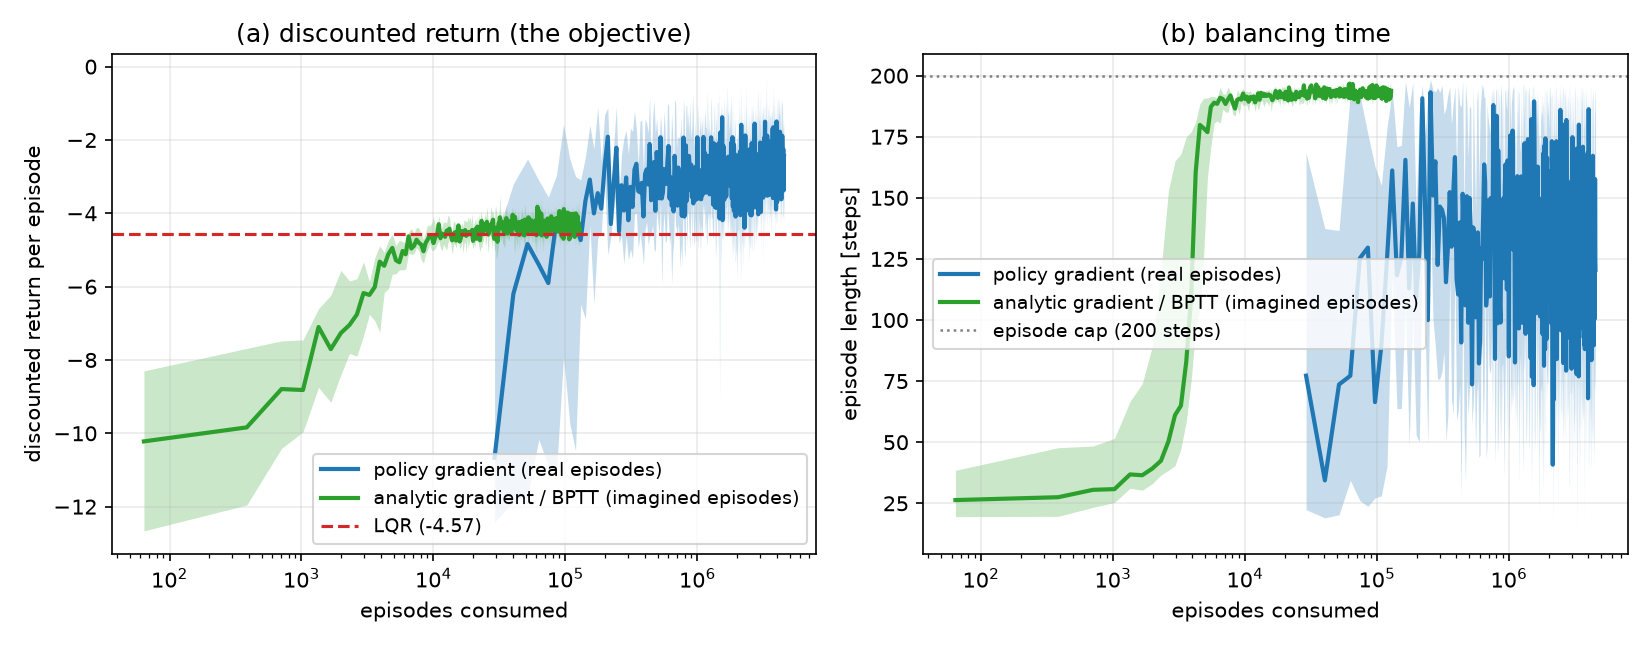
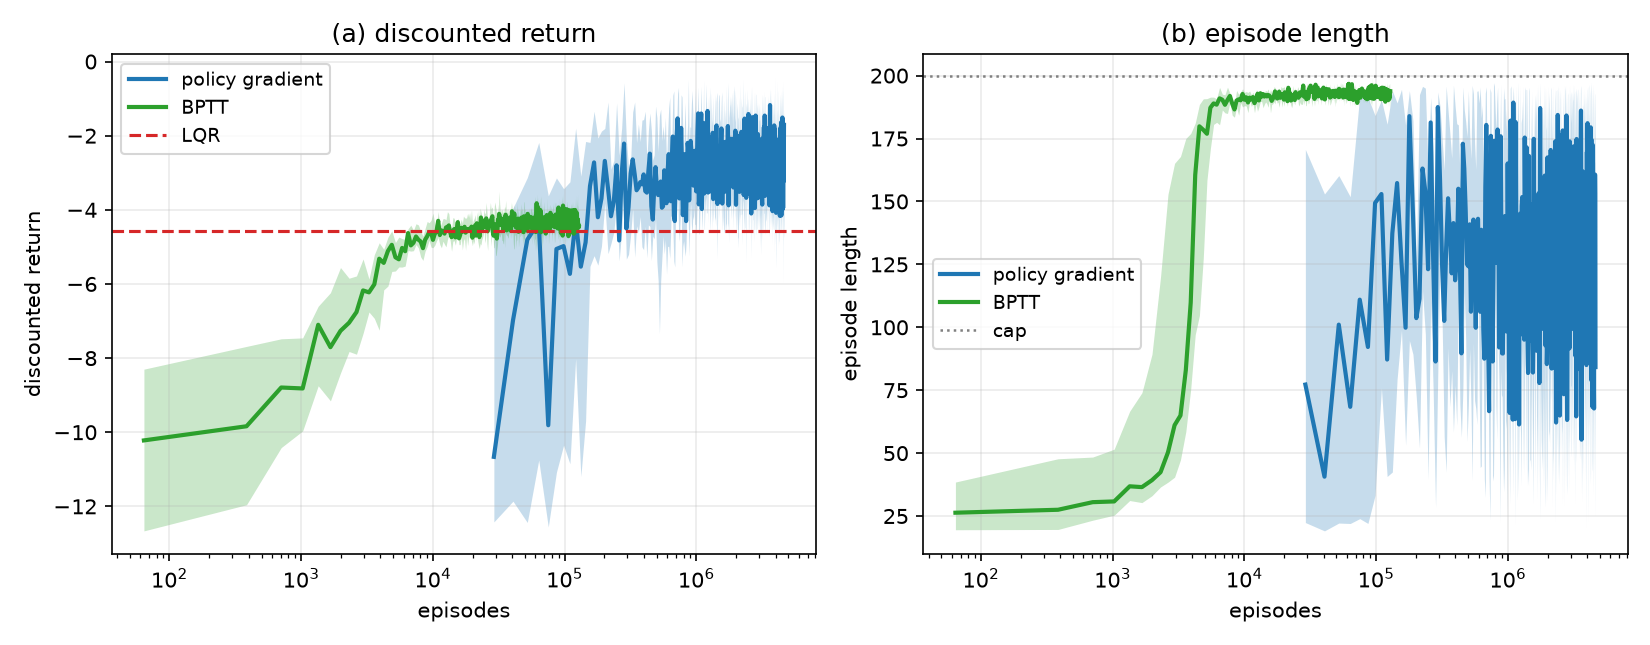
図の可読性改善と結果の更新
- 図のラベル・凡例・タイトルを短く整理した
- 図5(b)の角度を [-180, 180] 度へ折り返して描くようにした
  (回転は鋸歯状の波形として読める. 回転数は表2に数値で載せてある)
- 図5(b)の軌道を評価と同じ初期状態分布からサンプルした点から描き,
  最良の試行ではなく中央値に最も近い試行を選ぶようにした
  (分布の平均は角速度0の特異点で, 表の統計と食い違っていたため)
- 回転数の集計から発散した試行を除外した
- 課題指定の報酬では16試行の結果が二極化することを4.1節に反映した
  (自滅解と倒立側の局所解に分かれ, 中間的な挙動がない)
- 勾配クリッピングで発散が完全には消えないことを2.1節に明記した

diff --git a/main.py b/main.py
@@ -101,15 +101,15 @@ def plot_reward_design(spec, shaped):
     _, axes = plt.subplots(1, 2, figsize=(11, 4.3))
     window = spec[1].shape[1] // 2000
     for (policies, count, returns, lengths, _, _), color, name in (
-            (spec, "tab:red", r"as specified ($r=-s'Qs-aRa$)"),
-            (shaped, "tab:blue", r"with terminal penalty ($-20$ on failure)")):
+            (spec, "tab:red", "as specified"),
+            (shaped, "tab:blue", "terminal penalty")):
         band(axes[0], [curve(count[s], returns[s], window) for s in range(SEEDS)], color, name)
         band(axes[1], [curve(count[s], lengths[s], window) for s in range(SEEDS)], color, name)
-    axes[0].set_ylabel(r"return per episode under $r=-s'Qs-aRa$")
-    axes[0].set_title("(a) cumulative reward (terminal penalty excluded)")
-    axes[1].axhline(200, color="gray", ls=":", lw=1.2, label="episode cap (200 steps)")
-    axes[1].set_ylabel("episode length [steps]")
-    axes[1].set_title("(b) balancing time")
+    axes[0].set_ylabel("return")
+    axes[0].set_title("(a) return")
+    axes[1].axhline(200, color="gray", ls=":", lw=1.2, label="cap")
+    axes[1].set_ylabel("episode length")
+    axes[1].set_title("(b) episode length")
     for ax in axes:
         ax.set_xlabel("episodes")
         ax.set_xscale("log")
@@ -125,19 +125,19 @@ def plot_method_comparison(shaped, analytic, lqr_value):
     window = count.shape[1] // 2000
     bptt_x = np.arange(1, value_curve.shape[1] + 1) * BPTT.batch
     for ax, pg_values, bptt_values, ylabel, title in (
-            (axes[0], values, value_curve, "discounted return per episode", "(a) discounted return (the objective)"),
-            (axes[1], lengths, length_curve, "episode length [steps]", "(b) balancing time")):
+            (axes[0], values, value_curve, "discounted return", "(a) discounted return"),
+            (axes[1], lengths, length_curve, "episode length", "(b) episode length")):
         band(ax, [curve(count[s], pg_values[s], window) for s in range(SEEDS)], "tab:blue",
-             "policy gradient (real episodes)")
+             "policy gradient")
         band(ax, [(bptt_x, bptt_values[s]) for s in range(SEEDS)], "tab:green",
-             "analytic gradient / BPTT (imagined episodes)")
-        ax.set_xlabel("episodes consumed")
+             "BPTT")
+        ax.set_xlabel("episodes")
         ax.set_xscale("log")
         ax.set_ylabel(ylabel)
         ax.set_title(title)
         ax.grid(alpha=0.25)
-    axes[0].axhline(lqr_value, color="tab:red", ls="--", lw=1.5, label=f"LQR ({lqr_value:.2f})")
-    axes[1].axhline(200, color="gray", ls=":", lw=1.2, label="episode cap (200 steps)")
+    axes[0].axhline(lqr_value, color="tab:red", ls="--", lw=1.5, label="LQR")
+    axes[1].axhline(200, color="gray", ls=":", lw=1.2, label="cap")
     for ax in axes:
         ax.legend(fontsize=9, loc="best")
     save_figure("method_comparison.png")
@@ -162,8 +162,8 @@ def plot_gradient_quality(params, policies, key=jax.random.PRNGKey(11), episodes
         pathwise, likelihood, length = gradient_samples(params, policy, key, episodes)
         # 基準方向: 標準誤差が十分小さい解析的勾配の平均を真の勾配とみなす
         reference = pathwise.mean(axis=0) / np.linalg.norm(pathwise.mean(axis=0))
-        for samples, color, name in ((pathwise, "tab:green", "analytic gradient (BPTT)"),
-                                     (likelihood, "tab:blue", "likelihood ratio (policy gradient)")):
+        for samples, color, name in ((pathwise, "tab:green", "BPTT"),
+                                     (likelihood, "tab:blue", "policy gradient")):
             aligned = []
             for size in sizes:  # size本のエピソードから作った推定値と真の勾配方向との一致度
                 pooled = samples[: (episodes // size) * size].reshape(-1, size, 5).mean(axis=1)
@@ -177,9 +177,9 @@ def plot_gradient_quality(params, policies, key=jax.random.PRNGKey(11), episodes
         print(f"[gradient/{title}] mean episode length {length.mean():.1f} steps")
         ax.axhline(0.0, color="gray", lw=0.8)
         ax.set_xscale("log")
-        ax.set_xlabel("episodes per gradient estimate")
-        ax.set_ylabel("cosine similarity with the true gradient")
-        ax.set_title(f"{title} (mean episode length {length.mean():.0f} steps)")
+        ax.set_xlabel("episodes per estimate")
+        ax.set_ylabel("cosine similarity")
+        ax.set_title(f"{title} ({length.mean():.0f} steps/episode)")
         ax.set_ylim(-0.3, 1.05)
         ax.grid(alpha=0.25)
         ax.legend(fontsize=9, loc="lower right")
@@ -213,6 +213,10 @@ def best_policy(policies, hold):
     """代表として, 評価で最も長く維持できたseedの方策を返す"""
     return jnp.asarray(policies[int(np.argmax(hold))])
 
+def median_policy(policies, score):
+    """代表として, 評価値が中央値に最も近いseedの方策を返す"""
+    return jnp.asarray(policies[int(np.argmin(np.abs(np.asarray(score) - np.median(score))))])
+
 def report_swingup(label, params, policies, spec=SWINGUP_SPEC):
     """swing-up方策を評価し, 収益・倒立到達時刻・終盤の倒立滞在率を出力する"""
     returns, residency, rotations = [], [], []
@@ -224,7 +228,7 @@ def report_swingup(label, params, policies, spec=SWINGUP_SPEC):
         returns.append(float(np.mean(episode_return)))
         residency.append(float(np.mean(upright[:, -100:])))          # 終盤100ステップの倒立滞在率
         # 後半で何周したか. 静止なら0, 大振幅の往復なら1前後, 回転していれば数周以上になる
-        unwrapped = np.unwrap(states[:, :, 2], axis=1)
+        unwrapped = np.unwrap(np.nan_to_num(states[:, :, 2], nan=0.0, posinf=0.0, neginf=0.0), axis=1)
         rotations.append(float(np.median(np.abs(unwrapped[:, -1] - unwrapped[:, 150]) / (2.0 * np.pi))))
     returns, residency, rotations = np.array(returns), np.array(residency), np.array(rotations)
     finite = np.isfinite(returns)
@@ -232,7 +236,8 @@ def report_swingup(label, params, policies, spec=SWINGUP_SPEC):
     std_return = float(np.std(returns[finite])) if finite.any() else np.nan
     print(f"[{label}] return {mean_return:.1f} +/- {std_return:.1f} (mean +/- std over finite seeds), "
           f"upright residency {np.mean(residency):.2f} +/- {np.std(residency):.2f}, "
-          f"rotations {np.median(rotations):.2f}, finite seeds {finite.sum()}/{len(returns)}, "
+          f"rotations {np.median(rotations[finite]) if finite.any() else np.nan:.2f}, "
+          f"finite seeds {finite.sum()}/{len(returns)}, "
           f"success (residency > 0.9) {np.mean(residency > 0.9):.0%}")
     return residency, mean_return
 
@@ -242,30 +247,38 @@ def plot_swingup(pg, analytic, policies, lqr_return):
     count, returns = pg[1], pg[2]
     window = max(count.shape[1] // 200, 1)
     band(axes[0], [curve(count[s], returns[s], window) for s in range(SEEDS)], "tab:blue",
-         "policy gradient (real episodes)")
+         "policy gradient")
     bptt_x = np.arange(1, analytic[3].shape[1] + 1) * SWINGUP_BPTT.batch
     band(axes[0], [(bptt_x, analytic[3][s]) for s in range(SEEDS)], "tab:green",
-         "analytic gradient / BPTT (imagined episodes)")
-    axes[0].axhline(SWINGUP_STEPS, color="gray", ls=":", lw=1.2, label=f"upper bound ({SWINGUP_STEPS})")
-    axes[0].axhline(lqr_return, color="tab:red", ls="--", lw=1.5, label=f"LQR ({lqr_return:.0f})")
+         "BPTT")
+    axes[0].axhline(SWINGUP_STEPS, color="gray", ls=":", lw=1.2, label="upper bound")
+    axes[0].axhline(lqr_return, color="tab:red", ls="--", lw=1.5, label="LQR")
     axes[0].set_xscale("log")
     # 方策勾配法とLQRは大きな負の値へ発散するため, 0近傍を線形とする対数軸で描く
     axes[0].set_yscale("symlog", linthresh=100)
     axes[0].set_ylim(min(1.5 * lqr_return, -1000.0), SWINGUP_STEPS * 2)
-    axes[0].set_xlabel("episodes consumed")
-    axes[0].set_ylabel("return per episode")
+    axes[0].set_xlabel("episodes")
+    axes[0].set_ylabel("return")
     axes[0].set_title("(a) learning curve")
-    for name, policy, spec, color in policies:  # 角度は折り返さずに描く
-        states, _, _ = agent.rollout_policy(SWINGUP_PARAMS, spec, jnp.asarray(policy),
-                                            jnp.array(SWINGUP_PARAMS.initial_mean), SWINGUP_STEPS)
-        angle = np.rad2deg(np.unwrap(np.array(states)[:, 2]))
-        axes[1].plot(np.arange(SWINGUP_STEPS) * SWINGUP_PARAMS.dt, angle, color=color, label=name)
-    for level in range(-720, 721, 180):
-        axes[1].axhline(level, color="gray", lw=0.8 if level % 360 == 0 else 0.4,
-                        ls="--" if level % 360 == 0 else "-")
+    # 評価と同じ初期状態分布からサンプルした1点を用いる (分布の平均は角速度0の特異点のため)
+    x0 = env.sample_states(SWINGUP_PARAMS, jax.random.PRNGKey(5), 1)[0]
+    for name, policy, spec, color in policies:  # 角度は [-180, 180] 度へ折り返して描く
+        states, _, _ = agent.rollout_policy(SWINGUP_PARAMS, spec, jnp.asarray(policy), x0, SWINGUP_STEPS)
+        raw = np.array(states)[:, 2]
+        turns = np.abs(np.unwrap(raw)[-1] - np.unwrap(raw)[150]) / (2.0 * np.pi)
+        print(f"[swingup/trajectory] {name}: rotations over the plotted trajectory {turns:.2f}")
+        angle = np.rad2deg(raw)
+        angle = (angle + 180.0) % 360.0 - 180.0
+        jump = np.abs(np.diff(angle)) > 180.0          # 折り返しで縦線が入るのを防ぐ
+        angle = np.where(np.append(jump, False), np.nan, angle)
+        axes[1].plot(np.arange(SWINGUP_STEPS) * SWINGUP_PARAMS.dt, angle, color=color, lw=1.2, label=name)
+    for level, style in ((0.0, "--"), (180.0, "-"), (-180.0, "-")):
+        axes[1].axhline(level, color="gray", lw=0.8, ls=style)
+    axes[1].set_ylim(-190, 190)
+    axes[1].set_yticks([-180, -90, 0, 90, 180])
     axes[1].set_xlabel("time [s]")
-    axes[1].set_ylabel("pole angle [deg]  (0 = upright, 180 = hanging)")
-    axes[1].set_title("(b) trajectory from the hanging state")
+    axes[1].set_ylabel("pole angle [deg]")
+    axes[1].set_title("(b) trajectory (0 = upright)")
     for ax in axes:
         ax.grid(alpha=0.25)
         ax.legend(fontsize=9)
@@ -312,7 +325,7 @@ if __name__ == "__main__":
         ("learned policy", best_policy(analytic[0], analytic_hold))])
     plot_trajectories(SHAPED_PARAMS, [
         ("policy gradient", agent.feedback_gain(best_policy(pg_policies, pg_hold)), "tab:blue"),
-        ("analytic gradient (BPTT)", agent.feedback_gain(best_policy(analytic[0], analytic_hold)), "tab:green"),
+        ("BPTT", agent.feedback_gain(best_policy(analytic[0], analytic_hold)), "tab:green"),
         ("LQR", lqr, "tab:red")])
 
     # --- モデル誤差: モデルを使う2手法だけが影響を受ける ---
@@ -335,6 +348,6 @@ if __name__ == "__main__":
     plain_bptt = train_analytic(SWINGUP_PARAMS, SWINGUP_BPTT, SWINGUP_CONFIG, agent.LINEAR)
     report_swingup("swingup/BPTT (phi = Cs as specified)", SWINGUP_PARAMS, plain_bptt[0], agent.LINEAR)
     plot_swingup(swing_pg, swing_bptt, [
-        ("policy gradient", best_policy(swing_pg[0], pg_residency), SWINGUP_SPEC, "tab:blue"),
-        ("analytic gradient (BPTT)", best_policy(swing_bptt[0], bptt_residency), SWINGUP_SPEC, "tab:green"),
+        ("policy gradient", median_policy(swing_pg[0], pg_residency), SWINGUP_SPEC, "tab:blue"),
+        ("BPTT", median_policy(swing_bptt[0], bptt_residency), SWINGUP_SPEC, "tab:green"),
         ("LQR", lqr_policy, agent.LINEAR, "tab:red")], lqr_swing_return)
